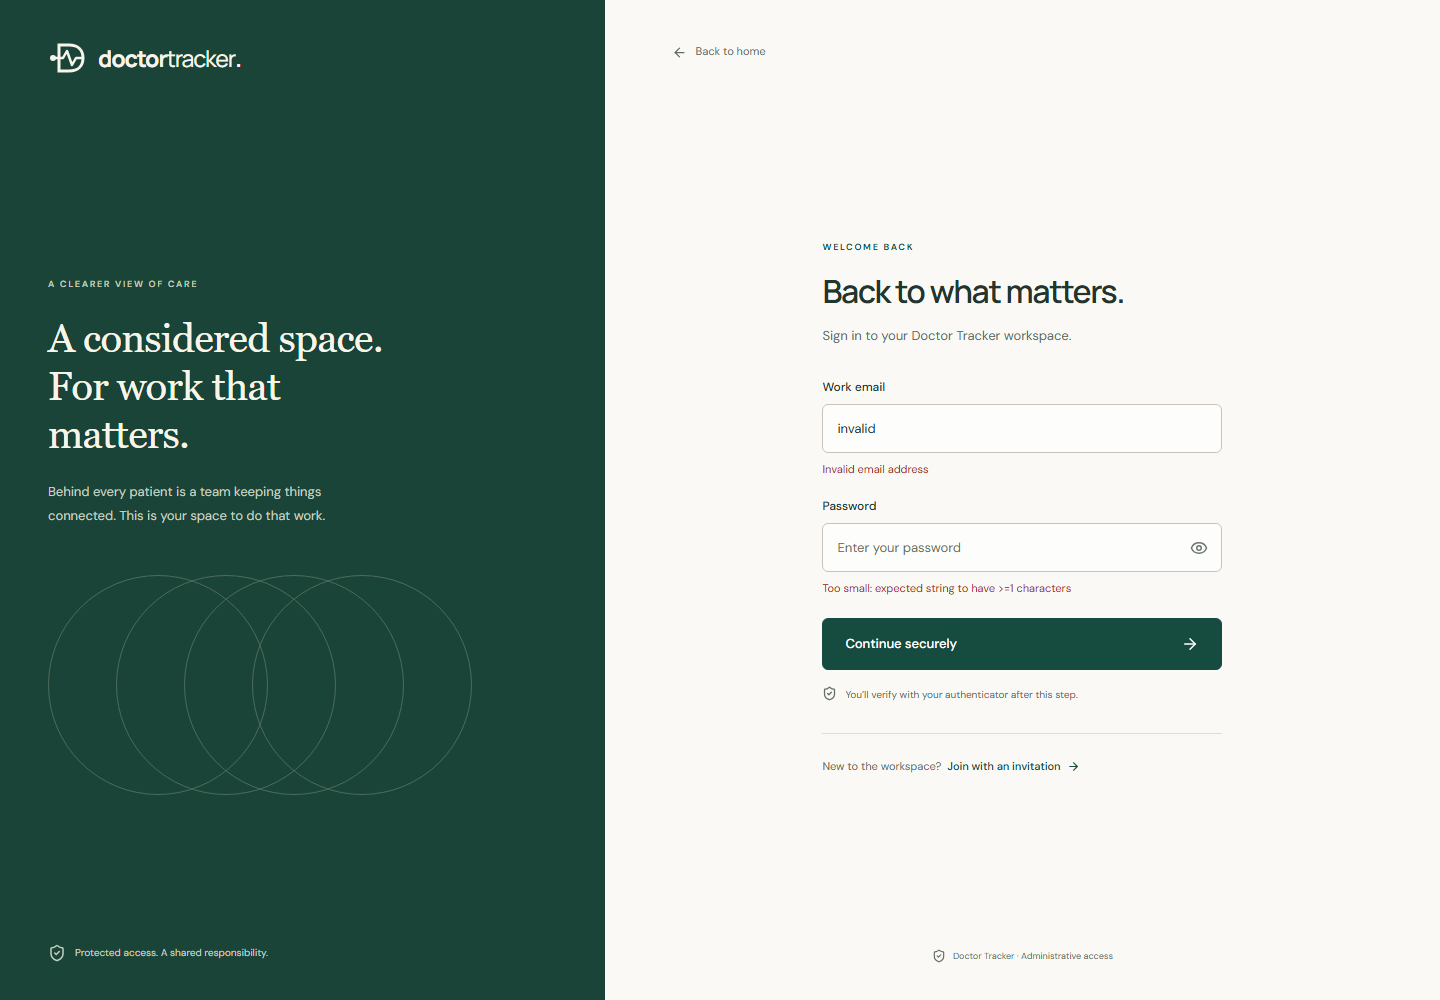
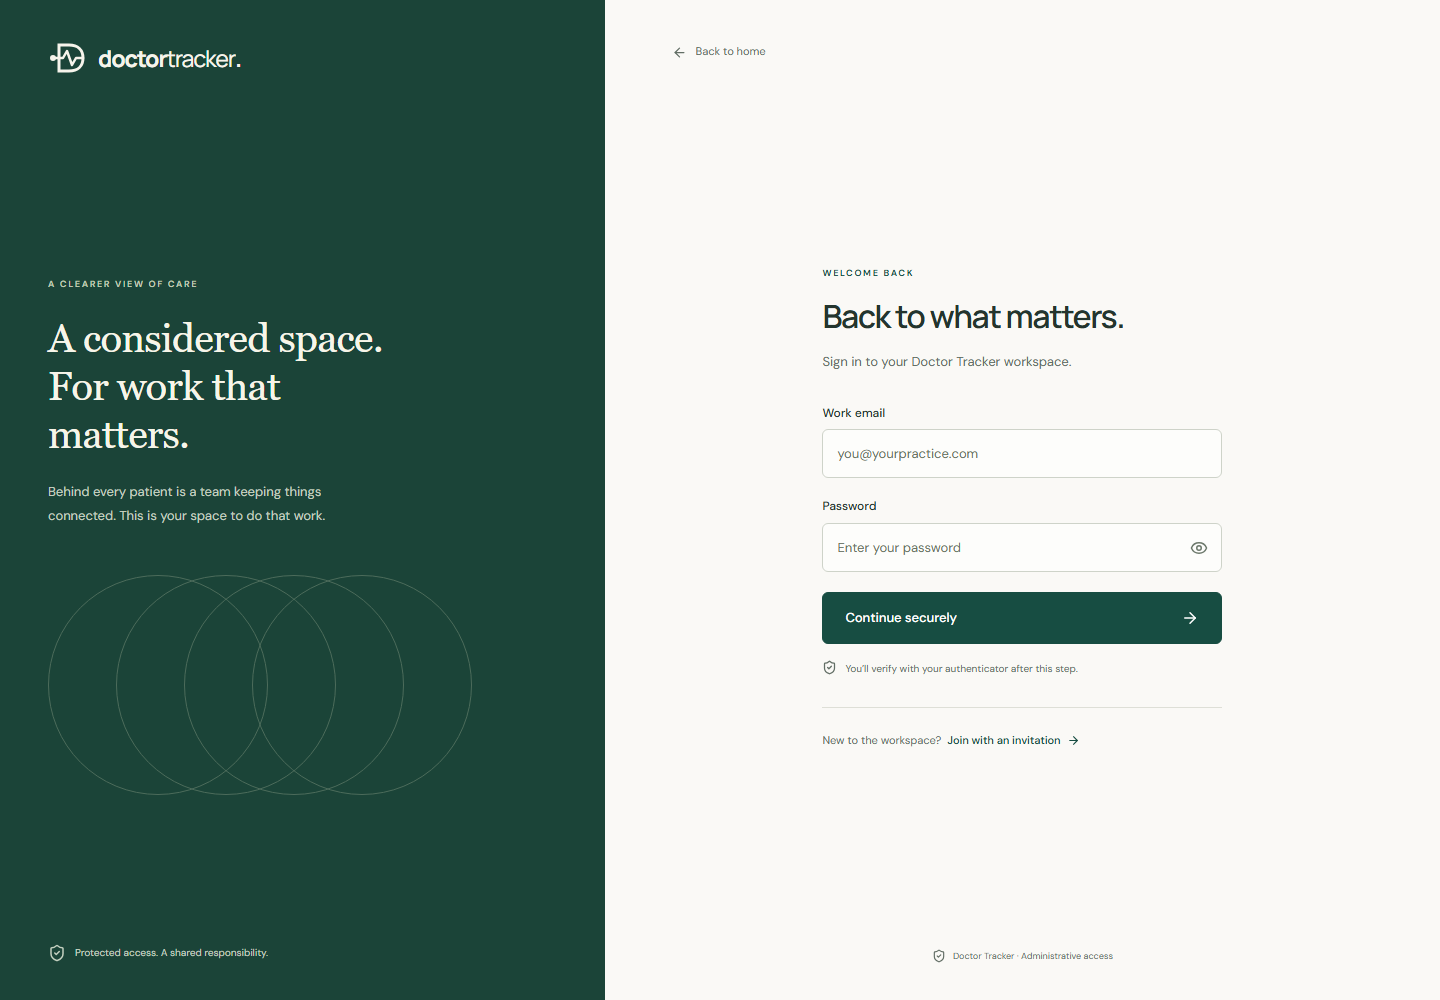
fix: harden session recovery and verify Stage 1 workflows

Changed region(s): [[0.5625, 0.589, 0.875, 0.775], [0.5625, 0.248, 0.7812, 0.496]]

diff --git a/tests/e2e/app.spec.ts b/tests/e2e/app.spec.ts
@@ -1,11 +1,21 @@
 import { randomBytes, createHash } from 'node:crypto';
 import { createRequire } from 'node:module';
 import { mkdir } from 'node:fs/promises';
-import { test, expect } from '@playwright/test';
+import { test, expect, type Page } from '@playwright/test';
 import { generate } from 'otplib';
 import AxeBuilder from '@axe-core/playwright';
 const { MongoClient } = createRequire(import.meta.url)('mongodb') as typeof import('mongodb');
 let database: InstanceType<typeof MongoClient>;
+
+async function checkAccessibility(page: Page) {
+  const result = await new AxeBuilder({ page }).withTags(['wcag2a', 'wcag2aa']).analyze();
+  expect(
+    result.violations.map((violation) => ({
+      id: violation.id,
+      targets: violation.nodes.map((node) => node.target),
+    })),
+  ).toEqual([]);
+}
 
 test.beforeAll(async () => {
   database = await new MongoClient(process.env.E2E_MONGODB_URI!).connect();
@@ -31,24 +41,27 @@ test('public routes, responsive layout, accessibility, and protected redirects',
     fullPage: true,
   });
   expect(await page.evaluate(() => document.documentElement.scrollWidth <= innerWidth)).toBe(true);
-  const accessibility = await new AxeBuilder({ page }).withTags(['wcag2a', 'wcag2aa']).analyze();
-  expect(accessibility.violations).toEqual([]);
+  await checkAccessibility(page);
+  await page.keyboard.press('Tab');
+  await expect(page.getByRole('link', { name: 'Skip to content' })).toBeFocused();
   await page.getByRole('link', { name: 'Get started' }).click();
   await expect(page.getByRole('heading', { name: /A personal invitation/ })).toBeVisible();
   await expect(page.getByRole('textbox', { name: 'Work email' })).toHaveCount(0);
+  await checkAccessibility(page);
   expect(await page.evaluate(() => document.documentElement.scrollWidth <= innerWidth)).toBe(true);
   for (const route of ['/dashboard', '/doctors', '/patients']) {
     await page.goto(route);
     await expect(page).toHaveURL(/\/login$/);
   }
-  await page.getByLabel('Work email').fill('invalid');
-  await page.getByLabel('Password', { exact: true }).fill('');
-  await page.getByRole('button', { name: 'Continue securely' }).click();
-  await expect(page.getByRole('alert').first()).toBeVisible();
+  await checkAccessibility(page);
   await page.screenshot({
     path: `docs/screenshots/login-${testInfo.project.name}.png`,
     fullPage: true,
   });
+  await page.getByLabel('Work email').fill('invalid');
+  await page.getByLabel('Password', { exact: true }).fill('');
+  await page.getByRole('button', { name: 'Continue securely' }).click();
+  await expect(page.getByText('Enter your password.', { exact: true })).toBeVisible();
   expect(await page.evaluate(() => document.documentElement.scrollWidth <= innerWidth)).toBe(true);
   expect(pageErrors).toEqual([]);
 });
@@ -71,17 +84,20 @@ test('real invitation, MFA enrollment, restored session, shell navigation, and l
   await page.goto(`/signup#invite=${token}`);
   await expect(page.getByRole('heading', { name: 'Make yourself at home.' })).toBeVisible();
   await expect(page).toHaveURL(/\/signup$/);
+  await checkAccessibility(page);
   await page.getByLabel('Full name').fill('Workspace Reviewer');
   await page.getByLabel('Work email').fill(email);
   await page.getByLabel('Password', { exact: true }).fill(password);
   await page.getByRole('button', { name: 'Create account & continue' }).click();
   await expect(page.getByRole('heading', { name: 'Secure your account.' })).toBeVisible();
   const secret = await page.getByLabel('Your manual setup key').inputValue();
+  await checkAccessibility(page);
   const unauthorized = await page.request.get('/api/v1/auth/me');
   expect(unauthorized.status()).toBe(401);
   await page.getByLabel('Authenticator code', { exact: true }).fill(await generate({ secret }));
   await page.getByRole('button', { name: 'Verify & continue' }).click();
   await expect(page.getByRole('heading', { name: 'Keep a way back in.' })).toBeVisible();
+  const recoveryCode = await page.locator('.recovery-codes code').first().innerText();
   await page.getByLabel('I’ve saved my recovery codes in a safe place.').check();
   await page.getByRole('button', { name: 'Enter your workspace' }).click();
   await expect(page).toHaveURL(/\/dashboard$/);
@@ -91,11 +107,13 @@ test('real invitation, MFA enrollment, restored session, shell navigation, and l
     fullPage: true,
   });
   expect(await page.evaluate(() => document.documentElement.scrollWidth <= innerWidth)).toBe(true);
-  const accessibility = await new AxeBuilder({ page }).withTags(['wcag2a', 'wcag2aa']).analyze();
-  expect(accessibility.violations).toEqual([]);
+  await checkAccessibility(page);
   // Force access expiry while retaining the real rotating refresh cookie; no fake authentication.
   await page.context().clearCookies({ name: 'dt_access' });
-  await page.reload();
+  const otherTab = await page.context().newPage();
+  await Promise.all([page.reload(), otherTab.goto('/dashboard')]);
+  await expect(otherTab.getByRole('heading', { name: 'A clear place to begin.' })).toBeVisible();
+  await otherTab.close();
   await expect(page.getByRole('heading', { name: 'A clear place to begin.' })).toBeVisible();
   for (const [label, heading] of [
     ['Doctors', 'The people providing care.'],
@@ -117,6 +135,18 @@ test('real invitation, MFA enrollment, restored session, shell navigation, and l
   await page.getByRole('button', { name: 'Sign out', exact: true }).click();
   await expect(page).toHaveURL(/\/login$/);
   await page.goto('/dashboard');
+  await expect(page).toHaveURL(/\/login$/);
+  await page.getByLabel('Work email').fill(email);
+  await page.getByLabel('Password', { exact: true }).fill(password);
+  await page.getByRole('button', { name: 'Continue securely' }).click();
+  await expect(page.getByRole('heading', { name: 'Verify it’s you.' })).toBeVisible();
+  await page.getByRole('button', { name: /Use a recovery code/ }).click();
+  await page.getByLabel('Recovery code', { exact: true }).fill(recoveryCode);
+  await page.getByRole('button', { name: 'Verify & continue' }).click();
+  await expect(page.getByRole('heading', { name: 'A clear place to begin.' })).toBeVisible();
+  if (testInfo.project.name.includes('mobile'))
+    await page.getByRole('button', { name: 'Open navigation' }).click();
+  await page.getByRole('button', { name: 'Sign out', exact: true }).click();
   await expect(page).toHaveURL(/\/login$/);
   expect(await database.db().collection('admins').countDocuments({ email, mfaEnabled: true })).toBe(
     1,

diff --git a/apps/api/src/services/auth.ts b/apps/api/src/services/auth.ts
@@ -329,14 +329,38 @@ export class AuthService {
   async logout(req: Request, res: Response) {
     const names = cookieNames(this.config);
     const refresh: unknown = req.cookies[names.refresh];
+    let familyId: string | undefined;
     if (typeof refresh === 'string') {
       const session = await Session.findOne({ tokenHash: hashToken(refresh) });
-      if (session)
-        await Session.updateMany(
-          { familyId: session.familyId },
-          { $set: { revokedAt: new Date() } },
-        );
+      familyId = session?.familyId;
     }
+    if (!familyId) {
+      const token: unknown = req.cookies[names.access];
+      let subject: string | undefined;
+      let sessionId: string | undefined;
+      if (typeof token === 'string') {
+        try {
+          const { payload } = await jwtVerify(token, Buffer.from(this.config.JWT_SECRET, 'hex'), {
+            algorithms: ['HS256'],
+            issuer: 'doctor-tracker-api',
+            audience: 'doctor-tracker-web',
+          });
+          if (
+            typeof payload.sid === 'string' &&
+            mongoose.isObjectIdOrHexString(payload.sid) &&
+            mongoose.isObjectIdOrHexString(payload.sub)
+          ) {
+            subject = payload.sub;
+            sessionId = payload.sid;
+          }
+        } catch {
+          /* An invalid access cookie can still be cleared during idempotent logout. */
+        }
+      }
+      if (subject && sessionId)
+        familyId = (await Session.findOne({ _id: sessionId, adminId: subject }))?.familyId;
+    }
+    if (familyId) await Session.updateMany({ familyId }, { $set: { revokedAt: new Date() } });
     const challenge: unknown = req.cookies[names.challenge];
     if (typeof challenge === 'string')
       await Challenge.deleteOne({ tokenHash: hashToken(challenge) });

diff --git a/apps/web/src/features/auth/credentials-form.tsx b/apps/web/src/features/auth/credentials-form.tsx
@@ -1,5 +1,5 @@
 'use client';
-import { useEffect, useState, type FormEvent } from 'react';
+import { useEffect, useRef, useState, type FormEvent } from 'react';
 import Link from 'next/link';
 import { useRouter } from 'next/navigation';
 import { ArrowRight, Eye, EyeOff, KeyRound, Mail, ShieldCheck } from 'lucide-react';
@@ -8,6 +8,7 @@ import { api, ApiError } from '../../lib/api';
 
 export function CredentialsForm({ mode }: { mode: 'login' | 'signup' }) {
   const router = useRouter();
+  const invitationRead = useRef(false);
   const signup = mode === 'signup';
   const [invitation, setInvitation] = useState('');
   const [initialized, setInitialized] = useState(!signup);
@@ -16,12 +17,12 @@ export function CredentialsForm({ mode }: { mode: 'login' | 'signup' }) {
   const [error, setError] = useState('');
   const [fields, setFields] = useState<Record<string, string[]>>({});
   useEffect(() => {
-    if (!signup) return;
+    if (!signup || invitationRead.current) return;
+    invitationRead.current = true;
     const token = new URLSearchParams(window.location.hash.slice(1)).get('invite') ?? '';
     // Remove the one-time invitation from the address bar immediately. Keep it in memory only.
     if (window.location.hash) window.history.replaceState(null, '', '/signup');
     // Browser URL state is external to React; read it once after hydration and remove the secret.
-    // eslint-disable-next-line react-hooks/set-state-in-effect -- One-time synchronization with the URL fragment, which is unavailable during server rendering.
     setInvitation(token);
     setInitialized(true);
   }, [signup]);

diff --git a/apps/web/src/lib/api.ts b/apps/web/src/lib/api.ts
@@ -34,11 +34,17 @@ async function send<T>(
     const payload: ApiEnvelope<T> & ApiErrorBody = await response.json();
     // Retry only safe reads. Never replay a mutation with an uncertain outcome.
     if (response.status === 401 && allowRefresh && method === 'GET' && path === '/auth/me') {
-      refreshing ??= send('/auth/refresh', 'POST', {}, false)
-        .then(() => undefined)
-        .finally(() => {
-          refreshing = undefined;
-        });
+      const rotate = async () => {
+        await send('/auth/refresh', 'POST', {}, false);
+      };
+      // Shared cookies rotate once at a time across tabs, avoiding false replay revocation.
+      refreshing ??= (
+        navigator.locks
+          ? navigator.locks.request('doctor-tracker-session-refresh', rotate)
+          : rotate()
+      ).finally(() => {
+        refreshing = undefined;
+      });
       await refreshing;
       return send<T>(path, method, body, false);
     }

diff --git a/apps/api/src/tests/auth.test.ts b/apps/api/src/tests/auth.test.ts
@@ -359,6 +359,25 @@ describe('sessions and authorization', () => {
       ).status,
     ).toBe(401);
   });
+  it('revokes the family on logout even when the refresh cookie is missing', async () => {
+    const c = await client();
+    const { response } = await enroll(c);
+    const access = responseCookies(response)
+      .find((cookie) => cookie.startsWith('dt_access='))!
+      .split(';')[0]!;
+    expect(
+      (
+        await request(app)
+          .post('/api/v1/auth/logout')
+          .set('Origin', origin)
+          .set('X-CSRF-Token', c.csrf)
+          .set('Cookie', `${access}; dt_csrf=${c.csrf}`)
+          .send({})
+      ).status,
+    ).toBe(200);
+    expect((await c.agent.get('/api/v1/auth/me')).status).toBe(401);
+    expect((await post(c, 'refresh')).status).toBe(401);
+  });
   it('rejects disabled admins and expired refresh tokens', async () => {
     const c = await client();
     await enroll(c);

diff --git a/apps/api/src/server.ts b/apps/api/src/server.ts
@@ -12,21 +12,25 @@ async function start() {
     logger.info({ event: 'server_started', port: config.PORT }),
   );
   let stopping = false;
-  async function shutdown() {
+  async function shutdown(exitCode = 0) {
     if (stopping) return;
     stopping = true;
     const timer = setTimeout(() => process.exit(1), 10_000).unref();
     server.close(async () => {
       await mongoose.disconnect();
       clearTimeout(timer);
-      process.exit(0);
+      process.exit(exitCode);
     });
   }
-  process.on('SIGINT', shutdown);
-  process.on('SIGTERM', shutdown);
+  process.on('SIGINT', () => {
+    void shutdown();
+  });
+  process.on('SIGTERM', () => {
+    void shutdown();
+  });
   server.on('error', () => {
     logger.error({ event: 'server_error' });
-    void shutdown();
+    void shutdown(1);
   });
 }
 start().catch(() => {

diff --git a/packages/shared/src/index.ts b/packages/shared/src/index.ts
@@ -1,7 +1,7 @@
 import { z } from 'zod';
 
 export const emailSchema = z
-  .email()
+  .email({ error: 'Enter a valid email address.' })
   .max(254)
   .transform((value) => value.toLowerCase());
 export const passwordSchema = z
@@ -14,10 +14,10 @@ export const passwordSchema = z
   );
 export const loginSchema = z.strictObject({
   email: emailSchema,
-  password: z.string().min(1).max(128),
+  password: z.string().min(1, 'Enter your password.').max(128, 'Use at most 128 characters.'),
 });
 export const signupSchema = z.strictObject({
-  name: z.string().trim().min(2).max(80),
+  name: z.string().trim().min(2, 'Enter your full name.').max(80, 'Use at most 80 characters.'),
   email: emailSchema,
   password: passwordSchema,
   invitation: z.string().regex(/^[a-f0-9]{64}$/),

diff --git a/tests/e2e/setup.ts b/tests/e2e/setup.ts
@@ -25,13 +25,18 @@ export default async function setup() {
   process.env.E2E_MONGODB_URI = message.uri;
   const web = spawn(
     process.execPath,
-    ['../../node_modules/next/dist/bin/next', 'start', '--hostname', '127.0.0.1'],
+    [
+      '../../node_modules/next/dist/bin/next',
+      process.env.E2E_WEB_MODE === 'development' ? 'dev' : 'start',
+      '--hostname',
+      '127.0.0.1',
+    ],
     {
       cwd: 'apps/web',
       stdio: 'pipe',
       env: {
         ...process.env,
-        NODE_ENV: 'production',
+        NODE_ENV: process.env.E2E_WEB_MODE === 'development' ? 'development' : 'production',
         API_ORIGIN: 'http://127.0.0.1:4000',
         APP_ORIGIN: 'http://localhost:3000',
         NEXT_TELEMETRY_DISABLED: '1',

diff --git a/docs/IMPLEMENTATION_STATUS.md b/docs/IMPLEMENTATION_STATUS.md
@@ -1,6 +1,6 @@
 # Implementation status
 
-Updated 8 November 2026. Scope: **Stage 1 of 6 only**.
+Updated 8 November 2026. Scope: **Stage 1 of 6 only**. Implementation and local verification complete; deployment-specific checks remain below.
 
 ## Completed foundation
 
@@ -57,15 +57,18 @@ TOTP uses 30-second SHA-1 six-digit codes with a 30-second clock tolerance. A mo
 
 Access JWTs expire after five minutes by default and validate HS256, issuer, audience, expiry, subject, session, role, and MFA claims. Every protected API read also checks the database account and session, so revocation is immediate. Refresh tokens are 256-bit random opaque values, stored as SHA-256 hashes, with a seven-day absolute family lifetime by default. Refresh cannot extend that absolute lifetime.
 
-Production cookies use Secure, HttpOnly, SameSite=Strict, Path=/, no Domain, and `__Host-` names. Development permits HTTP localhost cookies. No auth state is stored in localStorage/sessionStorage. The server layout checks identity through Express; expired access cookies use a client gate to refresh before revealing the workspace. Safe identity reads can retry after refresh; mutations never automatically replay.
+Production cookies use Secure, HttpOnly, SameSite=Strict, Path=/, no Domain, and `__Host-` names. Development permits HTTP localhost cookies. No auth state is stored in localStorage/sessionStorage. The server layout checks identity through Express; expired access cookies use a client gate to refresh before revealing the workspace. Safe identity reads can retry after refresh; mutations never automatically replay. Web Locks serialize refreshes across tabs in supported browsers. Older browsers without Web Locks may require signing in again if concurrent refreshes trigger strict replay protection.
 
 ## Verification record
 
 - Passed: strict application type checks, ESLint with zero warnings, and production builds of shared package, Express, and Next.js.
-- Passed: **23 backend/security integration tests** against an actual disposable MongoDB replica set, with real password hashing, crypto, OTPs, and transactions.
+- Passed: **24 backend/security integration tests** against an actual disposable MongoDB replica set, with real password hashing, crypto, OTPs, and transactions, including logout when a refresh cookie is missing.
 - Passed: production dependency audit with zero known vulnerabilities. A scoped override moves the development-only typescript-eslint minimatch dependency to its patched 11.x release; lint verifies compatibility. ESLint 9 remains for compatibility with Next.js's current React/a11y lint plugins.
-- Passed: **8 production Chromium browser tests** at 1440, 768, 375, and 320 pixels, including actual invitation registration, TOTP enrollment, recovery-code acknowledgment, access-cookie expiry and refresh, protected navigation, logout, and unauthenticated redirects. Landing/workspace accessibility scans report zero WCAG A/AA violations and all checked views have no horizontal overflow. Screenshots are committed under `docs/screenshots`.
-- Passed: strict type checking includes test and tooling sources. Final security review and command-line startup/provisioning smoke checks are being completed before the final handoff.
+- Passed: **8 production Chromium browser tests** at 1440, 768, 375, and 320 pixels, including actual invitation registration, TOTP enrollment, recovery-code acknowledgment and recovery login, access-cookie expiry and two-tab refresh, protected navigation, logout, and unauthenticated redirects. Landing, restricted signup, account signup, login, enrollment, and workspace accessibility scans report zero WCAG A/AA violations. Checked views have no horizontal overflow; keyboard skip navigation works. Production screenshots are committed under `docs/screenshots`.
+- Passed: the same **8 browser tests in development mode**, covering Strict Mode's effect replay. Invitation fragment consumption is explicitly guarded against a second effect execution.
+- Passed: strict type checking for apps, shared schemas, tests and tooling; lint with zero warnings; formatting; full and production-only audits with zero vulnerabilities. Direct dependency versions are pinned to the tested lockfile versions.
+- Passed: standalone compiled API startup and `/health`; privileged invitation CLI link generation and hashed-token persistence against a real local disposable replica set. Temporary CLI test invitation was removed and owned servers stopped afterward. Initial local database startup encountered a transient replica-set initialization failure; the retry and subsequent database/API/CLI operations succeeded.
+- Completed: Stage 1 security review against items A–R in `SECURITY.md`. Deployment/infrastructure checks remain explicitly out of scope. GitHub Actions runs the same verification sequence; its first run caught formatting of a generated Next.js declaration file, now excluded from source formatting and Git tracking.
 
 ## Limits and next stages
 

diff --git a/README.md b/README.md
@@ -158,6 +158,8 @@ npm run test:e2e
 
 On Linux CI, use `npx playwright install --with-deps chromium`. The browser suite starts both actual apps with an isolated database, creates private test invitations, exercises real enrollment and refresh, checks responsive overflow and accessibility at 1440, 768, 375, and 320 pixels, then tears down its servers. Test identities are disposable; they are never seeded into your configured database.
 
+Set `E2E_WEB_MODE=development` to run the same browser suite against `next dev` and React Strict Mode. In PowerShell, set `$env:E2E_WEB_MODE = 'development'` before running the suite, then remove that environment variable afterward. This development suite has also passed at all four viewport sizes.
+
 For production-process smoke testing locally after a build, run these in separate terminals with your configured database running:
 
 ```sh

diff --git a/apps/web/AGENTS.md b/apps/web/AGENTS.md
@@ -1,0 +1,9 @@
+<!-- BEGIN:nextjs-agent-rules -->
+
+## This is NOT the Next.js you know
+
+This version has breaking changes — APIs, conventions, and file structure may all differ from your training data. Read the relevant guide in `node_modules/next/dist/docs/` (resolved from this file's directory; in monorepos the `next` package may not be visible from the repo root) before writing any code. Heed deprecation notices.
+
+This block is written and re-added by `next dev` — verify at `node_modules/next/dist/server/lib/generate-agent-files.js`. Removing it from a diff only re-creates the uncommitted change; committing it with your work keeps the tree clean.
+
+<!-- END:nextjs-agent-rules -->
